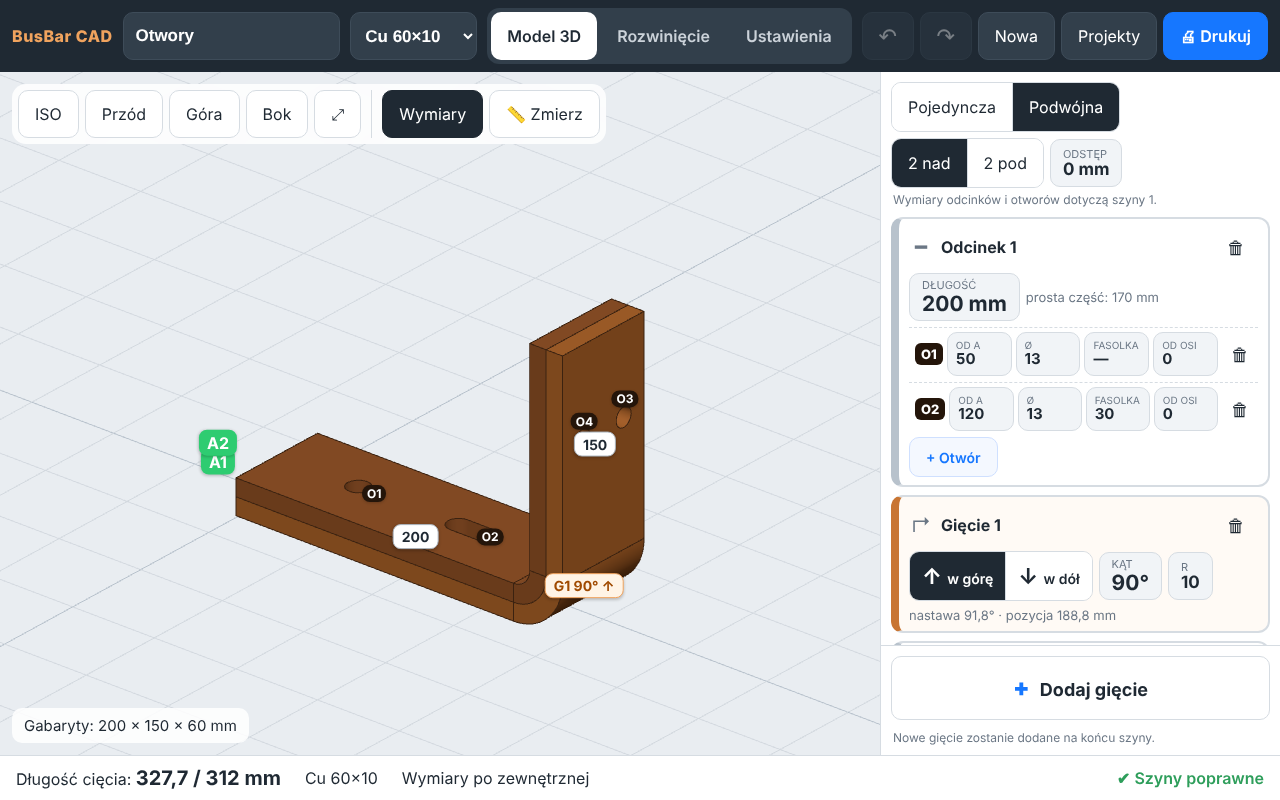
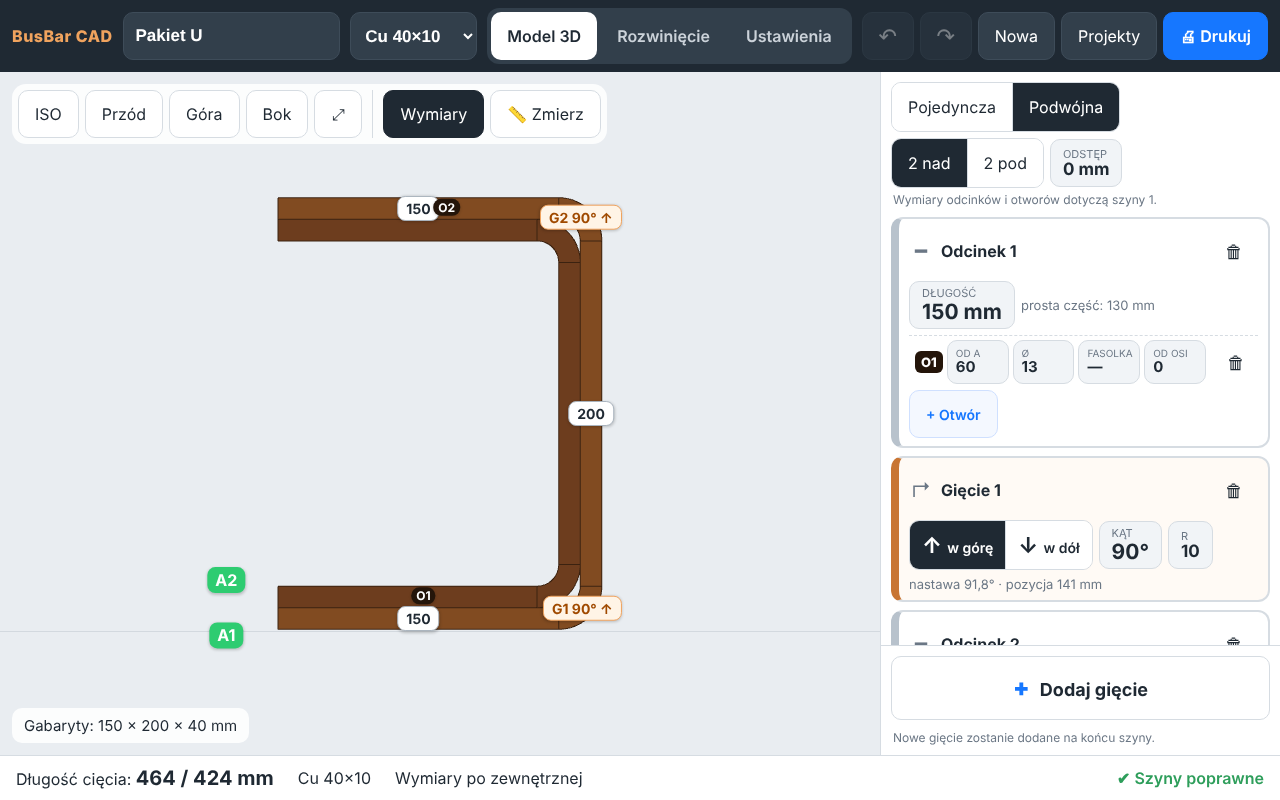
Double bar: both bars bent separately with the same tool
Production bends the two bars separately with the same tool, so both use
radius R in every bend (no more R + T + gap for the outer bar). Bar 2's legs
are recomputed so they stay parallel to bar 1 at T + gap: at each bend the
virtual sharp moves by d*tan(A/2) (inner bar shorter, outer longer); holes
move with the leg start and stay coaxial. The arcs are no longer concentric,
the gap at each arc is reported in the instructions.

Tests cover L and Z shapes, bar 2 above/below, gap 0/3 and all three
dimension modes: legs parallel at T + gap, holes coaxial, no overlap.

Claude-Session: https://claude.ai/code/session_01JY2RTyAgG4ZqrE8KV9xt5m

diff --git a/src/core/core.test.ts b/src/core/core.test.ts
@@ -225,40 +225,109 @@ describe('holes', () => {
   });
 });
 
-describe('double bar', () => {
-  const L = (side: 'above' | 'below', gap = 0) => ({
-    ...newBusbar(S40x10, [
+describe('double bar (both bars bent separately with the same tool)', () => {
+  type Part = ReturnType<typeof buildAssembly>['parts'][number];
+  const holeWorld = (part: Part, k: number) => {
+    const h = part.analysis.holes[k];
+    const f = part.path.samples[part.path.stepRanges[h.stepIndex][0]];
+    return f.p
+      .clone()
+      .addScaledVector(f.t, h.posOnStraight)
+      .addScaledVector(f.w, h.offset)
+      .add(new Vector3(0, part.offset, 0));
+  };
+  /** Distance of a point from the centre line of a part (min over densely sampled segments). */
+  const distToCentreline = (part: Part, p: Vector3) => {
+    let best = Infinity;
+    const s = part.path.samples;
+    const off = new Vector3(0, part.offset, 0);
+    for (let k = 1; k < s.length; k++) {
+      const a = s[k - 1].p.clone().add(off);
+      const b = s[k].p.clone().add(off);
+      const ab = b.clone().sub(a);
+      const t = Math.max(0, Math.min(1, p.clone().sub(a).dot(ab) / Math.max(ab.lengthSq(), 1e-9)));
+      best = Math.min(best, a.addScaledVector(ab, t).distanceTo(p));
+    }
+    return best;
+  };
+
+  const shapes = {
+    L: () => [
       straight(200, [{ position: 50, offset: 0, diameter: 13, slot: 0 }]),
       bend(90, 'up', 10),
       straight(150, [{ position: 100, offset: 0, diameter: 13, slot: 0 }]),
-    ]),
+    ],
+    Z: () => [
+      straight(150, [{ position: 40, offset: 5, diameter: 13, slot: 0 }]),
+      bend(45, 'up', 10),
+      straight(120, [{ position: 60, offset: 0, diameter: 11, slot: 20 }]),
+      bend(90, 'down', 10),
+      straight(160, [{ position: 90, offset: -8, diameter: 13, slot: 0 }]),
+    ],
+  };
+  const make = (
+    shape: keyof typeof shapes,
+    side: 'above' | 'below',
+    gap: number,
+    mode: 'outside' | 'inside' | 'centerline' = 'outside',
+  ) => ({
+    ...newBusbar(S40x10, shapes[shape]()),
+    dimensionMode: mode,
     double: { enabled: true, side, gap },
   });
 
-  it('inner bar gets tool radius, outer R + T + gap', () => {
-    const asm = buildAssembly(L('above', 2), settings);
-    const [p1, p2] = asm.parts;
-    expect((p1.bar.steps[1] as { radius: number }).radius).toBeCloseTo(22, 6); // bar 1 is outer
-    expect((p2.bar.steps[1] as { radius: number }).radius).toBeCloseTo(10, 6); // bar 2 inside the bend
-    expect(p2.analysis.flatLength).toBeLessThan(p1.analysis.flatLength);
+  it('both bars use the tool radius in every bend', () => {
+    const [p1, p2] = buildAssembly(make('Z', 'above', 2), settings).parts;
+    for (const p of [p1, p2]) for (const s of p.bar.steps) if (s.kind === 'bend') expect(s.radius).toBe(10);
   });
 
-  it('bars stay parallel at distance T + gap and holes line up', () => {
-    for (const side of ['above', 'below'] as const) {
-      const gap = 3;
-      const asm = buildAssembly(L(side, gap), settings);
-      const [p1, p2] = asm.parts;
-      const e1 = p1.path.samples[p1.path.samples.length - 1];
-      const e2 = p2.path.samples[p2.path.samples.length - 1];
-      const end2 = e2.p.clone().add(new Vector3(0, p2.offset, 0));
-      const diff = end2.sub(e1.p);
-      // end points differ only along the local thickness normal by ±(T + gap)
-      expect(Math.abs(diff.dot(e1.n))).toBeCloseTo(10 + gap, 6);
-      expect(diff.dot(e1.t)).toBeCloseTo(0, 6);
-      // holes are at the same place on the straight parts
-      p1.analysis.holes.forEach((h, k) => expect(p2.analysis.holes[k].posOnStraight).toBeCloseTo(h.posOnStraight, 6));
-      expect(asm.issues.filter((i) => i.level === 'error')).toHaveLength(0);
-    }
+  it('inner bar legs are d·tan(A/2) shorter per bend, outer longer', () => {
+    const [p1, p2] = buildAssembly(make('L', 'above', 0), settings).parts; // bar 2 inside the 90° bend
+    expect((p2.bar.steps[0] as StraightStep).length).toBeCloseTo(200 - 10, 6);
+    expect((p2.bar.steps[2] as StraightStep).length).toBeCloseTo(150 - 10, 6);
+    expect(p2.analysis.flatLength).toBeLessThan(p1.analysis.flatLength);
+    const [, q2] = buildAssembly(make('L', 'below', 0), settings).parts; // bar 2 outside
+    expect((q2.bar.steps[0] as StraightStep).length).toBeCloseTo(210, 6);
+  });
+
+  for (const shape of ['L', 'Z'] as const)
+    for (const side of ['above', 'below'] as const)
+      for (const gap of [0, 3])
+        for (const mode of ['outside', 'inside', 'centerline'] as const)
+          it(`${shape}, bar 2 ${side}, gap ${gap}, ${mode}: legs parallel at T+gap, holes coaxial, no overlap`, () => {
+            const asm = buildAssembly(make(shape, side, gap, mode), settings);
+            const [p1, p2] = asm.parts;
+            const d = 10 + gap;
+            // straight legs: bar 2's leg lies on the line of bar 1's leg shifted by d along its normal
+            p2.bar.steps.forEach((st, i) => {
+              if (st.kind !== 'straight') return;
+              const f1 = p1.path.samples[p1.path.stepRanges[i][0]];
+              for (const k of p2.path.stepRanges[i]) {
+                const v = p2.path.samples[k].p
+                  .clone()
+                  .add(new Vector3(0, p2.offset, 0))
+                  .sub(f1.p);
+                expect(Math.abs(v.dot(f1.n))).toBeCloseTo(d, 4);
+                expect(v.dot(f1.w)).toBeCloseTo(0, 6);
+              }
+            });
+            // holes: the line between matching hole centres is along the thickness normal, length d
+            p1.analysis.holes.forEach((_, k) => {
+              const a = holeWorld(p1, k);
+              const b = holeWorld(p2, k);
+              expect(a.distanceTo(b)).toBeCloseTo(d, 4);
+            });
+            // nowhere closer than d (bars never overlap, arcs only open a gap)
+            for (const sm of p2.path.samples) {
+              const pt = sm.p.clone().add(new Vector3(0, p2.offset, 0));
+              expect(distToCentreline(p1, pt)).toBeGreaterThan(d - 1e-6);
+            }
+            expect(asm.issues.filter((x) => x.level === 'error')).toHaveLength(0);
+          });
+
+  it('reports the arc gap', () => {
+    const asm = buildAssembly(make('L', 'above', 0), settings);
+    expect(asm.arcGaps[0].gap).toBeCloseTo(10 * Math.SQRT2 - 10, 6);
   });
 });
 

diff --git a/src/core/assembly.ts b/src/core/assembly.ts
@@ -1,6 +1,5 @@
 import { Box3, Vector3 } from 'three';
 import { analyze, type Analysis, type Issue } from './analyze';
-import { setback } from './bending';
 import { buildPath, collisionIssues, type BarPath } from './geometry';
 import { DEFAULT_DOUBLE, type BendStep, type Busbar, type DoubleConfig, type MachineSettings, type Step } from './model';
 
@@ -20,6 +19,8 @@ export interface Assembly {
   parts: BarPart[];
   issues: Issue[];
   bbox: Box3;
+  /** Double bar: gap between the bars at the middle of each bend arc (they touch only on straight legs). */
+  arcGaps: { no: number; gap: number }[];
 }
 
 export function doubleConfig(bar: Busbar): DoubleConfig {
@@ -34,14 +35,20 @@ function isOuter(side: 'above' | 'below', b: BendStep): boolean {
   return (b.direction === 'up') !== (side === 'above');
 }
 
+const validBend = (s: Step | undefined): s is BendStep => !!s && s.kind === 'bend' && s.angle > 0 && s.angle < 180;
+
 /**
  * Build the parts of a project.
  *
  * Single bar: the project as is.
- * Double bar: both bars are stacked through the thickness at distance d = T + gap. In every bend
- * the inner bar gets the radius from the project (tool radius) and the outer one R + d, so the
- * arcs are concentric and the bars nest. The leg lengths entered by the user describe bar 1; the
- * straight (tangent) parts of bar 2 are equal to those of bar 1, holes keep their place on them.
+ *
+ * Double bar: two bars bent separately with the same tool (radius R in every bend), then put
+ * together through the thickness at distance d = T + gap. The legs the user entered describe
+ * bar 1. The straight legs of bar 2 must be parallel to those of bar 1 at distance d, so at every
+ * bend the virtual sharp of bar 2 moves along each leg by d·tan(A/2): its legs are shorter where
+ * it is the inner bar and longer where it is the outer one. Holes move with the leg start, so
+ * they stay exactly above each other. With equal radii the arcs are not concentric: in a bend the
+ * bars do not touch, leaving a gap of (d / cos(A/2) − T) at the middle of the arc.
  */
 export function buildAssembly(project: Busbar, settings: MachineSettings): Assembly {
   const dbl = doubleConfig(project);
@@ -49,47 +56,47 @@ export function buildAssembly(project: Busbar, settings: MachineSettings): Assem
     const analysis = analyze(project, settings);
     const path = buildPath(project, analysis);
     const issues = [...analysis.issues, ...collisionIssues(project, path)];
-    return { parts: [{ index: 1, label: 'Szyna', bar: project, analysis, path, offset: 0 }], issues, bbox: path.bbox.clone() };
+    return {
+      parts: [{ index: 1, label: 'Szyna', bar: project, analysis, path, offset: 0 }],
+      issues,
+      bbox: path.bbox.clone(),
+      arcGaps: [],
+    };
   }
 
   const T = project.section.thickness;
   const d = T + Math.max(0, dbl.gap);
   const side2 = dbl.side;
-  const side1 = side2 === 'above' ? 'below' : 'above';
 
-  // Bar 1: same legs, radius increased where it is the outer bar.
-  const bar1: Busbar = {
-    ...project,
-    steps: project.steps.map((s) => (s.kind === 'bend' ? { ...s, radius: s.radius + (isOuter(side1, s) ? d : 0) } : s)),
-  };
+  const bar1 = project;
   const an1 = analyze(bar1, settings);
   const path1 = buildPath(bar1, an1);
 
-  // Bar 2: radii for its side, legs rebuilt from the common straight parts.
-  const bends2: Step[] = project.steps.map((s) =>
-    s.kind === 'bend' ? { ...s, radius: s.radius + (isOuter(side2, s) ? d : 0) } : s,
-  );
-  const sb = (steps: Step[], i: number) => {
-    const s = steps[i];
-    if (!s || s.kind !== 'bend' || !(s.angle > 0 && s.angle < 180)) return 0;
-    return setback(s.angle, s.radius, T, project.dimensionMode);
+  // Shift of bar 2's virtual sharp along the legs at each bend (+ longer legs, − shorter).
+  const shift = (j: number) => {
+    const b = project.steps[j];
+    if (!validBend(b)) return 0;
+    return (isOuter(side2, b) ? 1 : -1) * d * Math.tan((b.angle * Math.PI) / 360);
   };
-  const steps2: Step[] = bends2.map((s, i) => {
+  const steps2: Step[] = project.steps.map((s, i) => {
     if (s.kind !== 'straight') return s;
-    const net = an1.netStraight[i] ?? 0;
-    const before1 = sb(bar1.steps, i - 1);
-    const before2 = sb(bends2, i - 1);
-    const after2 = sb(bends2, i + 1);
+    const before = shift(i - 1);
+    const after = shift(i + 1);
     return {
       ...s,
-      length: net + before2 + after2,
-      holes: s.holes?.map((h) => ({ ...h, position: h.position - before1 + before2 })),
+      length: s.length + before + after,
+      ...(s.holes ? { holes: s.holes.map((h) => ({ ...h, position: h.position + before })) } : {}),
     };
   });
   const bar2: Busbar = { ...project, steps: steps2 };
   const an2 = analyze(bar2, settings);
   const path2 = buildPath(bar2, an2);
   const offset2 = (side2 === 'above' ? 1 : -1) * d;
+
+  const arcGaps = an1.bends.map((b) => ({
+    no: b.no,
+    gap: d / Math.cos((b.angle * Math.PI) / 360) - T,
+  }));
 
   const issues: Issue[] = [
     ...an1.issues.map((i) => ({ ...i, message: `Szyna 1: ${i.message}` })),
@@ -109,5 +116,6 @@ export function buildAssembly(project: Busbar, settings: MachineSettings): Assem
     ],
     issues,
     bbox,
+    arcGaps,
   };
 }

diff --git a/src/App.tsx b/src/App.tsx
@@ -170,9 +170,7 @@ export default function App() {
             )}
             {double && (
               <div className="card double-note">
-                <b>Podwójna szyna.</b> Każdą szynę tnij i gnij według jej własnej tabeli. W gięciach szyna wewnętrzna ma promień
-                narzędzia, a zewnętrzna większy o grubość i odstęp, dzięki czemu obie do siebie przylegają, a otwory wypadają na
-                sobie.
+                <b>Podwójna szyna.</b> {doubleNote(assembly)}
               </div>
             )}
             {assembly.parts.map((part) => (
@@ -565,6 +563,17 @@ function ProjectsModal({
   );
 }
 
+/** Instructions for a double bar: separate bending with the same tool, gap in the arcs. */
+function doubleNote(assembly: Assembly): string {
+  const worst = assembly.arcGaps.reduce<{ no: number; gap: number } | null>((m, g) => (!m || g.gap > m.gap ? g : m), null);
+  const gapText = worst ? ` W łukach szyny nie przylegają – największa szczelina ${fmt(worst.gap)} mm (gięcie ${worst.no}).` : '';
+  return (
+    'Każdą szynę tnij i gnij osobno według jej własnej tabeli, tym samym narzędziem. Na prostych odcinkach szyny ' +
+    'przylegają (lub mają zadany odstęp), a otwory wypadają na sobie.' +
+    gapText
+  );
+}
+
 function PartDocs({ part, double, settings }: { part: BarPart; double: boolean; settings: MachineSettings }) {
   const { bar, analysis } = part;
   return (
@@ -679,12 +688,7 @@ function PrintSheet({
           <div>
             Wymiary ramion: <b>{DIMENSION_MODE_LABEL[bar.dimensionMode]}</b> · K {settings.k} · koniec A oznaczony na zielono
           </div>
-          {double && (
-            <div>
-              Podwójna szyna: każdą szynę tnij i gnij według jej tabeli. Szyna wewnętrzna w gięciu ma promień narzędzia,
-              zewnętrzna większy o grubość i odstęp.
-            </div>
-          )}
+          {double && <div>Podwójna szyna: {doubleNote(assembly)}</div>}
           {issues.length > 0 && (
             <div className="print-issues">
               {issues.map((i, k) => (

diff --git a/README.md b/README.md
@@ -30,7 +30,7 @@ Na telefonie lub tablecie możesz potem dodać stronę do ekranu głównego („
 
 - **Edytor kroków:** odcinki i gięcia płaskie (przez grubość szyny). Wartości wpisuje się na dużej klawiaturze numerycznej z szybkimi kątami. Kierunek gięcia wybiera się przyciskami ↑ w górę / ↓ w dół. Nowe gięcie wstawia się za zaznaczonym odcinkiem.
 - **Otwory:** okrągłe i fasolki na odcinkach prostych. Pozycja wzdłuż odcinka (tak jak jego wymiar), średnica, długość fasolki i przesunięcie od osi. W modelu 3D otwory są przelotowe (ze ściankami, widać przez nie na wylot) i mają numery O1, O2… zgodne z tabelą. Na rozwinięciu są wymiary od końca A i osobna tabela otworów. Aplikacja ostrzega, gdy otwór jest w strefie gięcia, za blisko gięcia albo poza szerokością szyny.
-- **Podwójna szyna:** dwie szyny gięte w pakiecie, druga nad albo pod pierwszą, z opcjonalnym odstępem. W każdym gięciu szyna wewnętrzna ma promień narzędzia, a zewnętrzna R + grubość + odstęp. Łuki są współśrodkowe, szyny przylegają, a otwory wypadają na sobie. Każda szyna ma własną długość cięcia, tabelę gięć i otworów oraz rysunek. Wymiary wpisuje się dla szyny 1.
+- **Podwójna szyna:** dwie szyny, które po wygięciu składa się razem (druga nad albo pod pierwszą, z opcjonalnym odstępem). Obie gnie się **osobno, tym samym narzędziem** (promień R w każdym gięciu). Aplikacja wylicza długości odcinków szyny 2 tak, żeby jej proste odcinki były równoległe do szyny 1 w odległości grubość + odstęp: w każdym gięciu odcinki szyny wewnętrznej są krótsze, a zewnętrznej dłuższe o d·tan(kąt/2). Otwory wypadają dokładnie na sobie. W łukach szyny nie przylegają, a aplikacja podaje największą szczelinę. Każda szyna ma własną długość cięcia, tabelę gięć i otworów oraz rysunek. Wymiary wpisuje się dla szyny 1.
 - **Model 3D:**
   - obrót jednym palcem, zoom i przesuwanie dwoma,
   - widoki ISO/Przód/Góra/Bok i automatyczne dopasowanie kadru,
@@ -60,6 +60,5 @@ src/store.ts   stan aplikacji, historia cofnij/ponów, zapis lokalny
 
 - Współczynniki K i sprężynowania to wartości przykładowe. Trzeba je skalibrować na próbkach z maszyny.
 - Brak eksportu DXF i kreatora kalibracji. To kolejne etapy z planu.
-- Podwójna szyna zakłada, że zewnętrzną szynę da się giąć z promieniem R + grubość + odstęp. Do sprawdzenia, czy giętarka ma takie narzędzie albo czy gięcie zewnętrznej szyny wykonuje się inaczej.
 - Kierunki „w górę/w dół” są liczone względem szyny w chwili gięcia. Do ustalenia z operatorem, jak to przełożyć na ułożenie szyny w maszynie.
 - Giętarka robi tylko gięcia płaskie, więc gięć na kant i skrętów celowo nie ma. Starsze projekty z nimi są przy wczytaniu konwertowane (gięcie na kant staje się płaskim, strefa skrętu jest doliczana do odcinka) i aplikacja prosi o sprawdzenie projektu.
